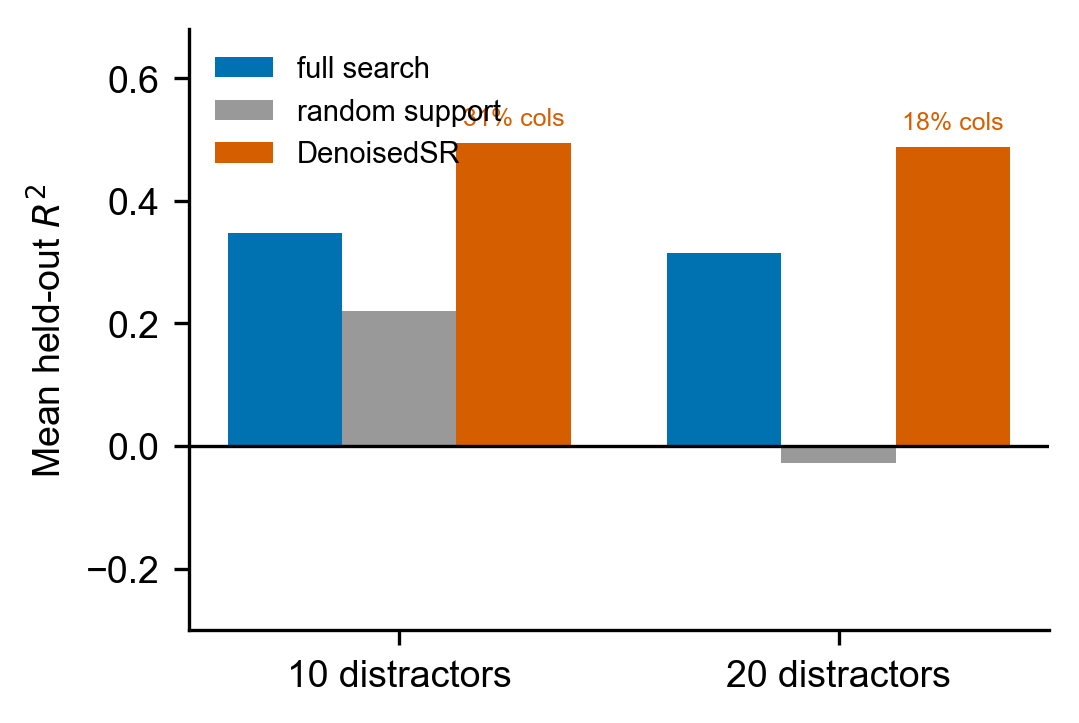
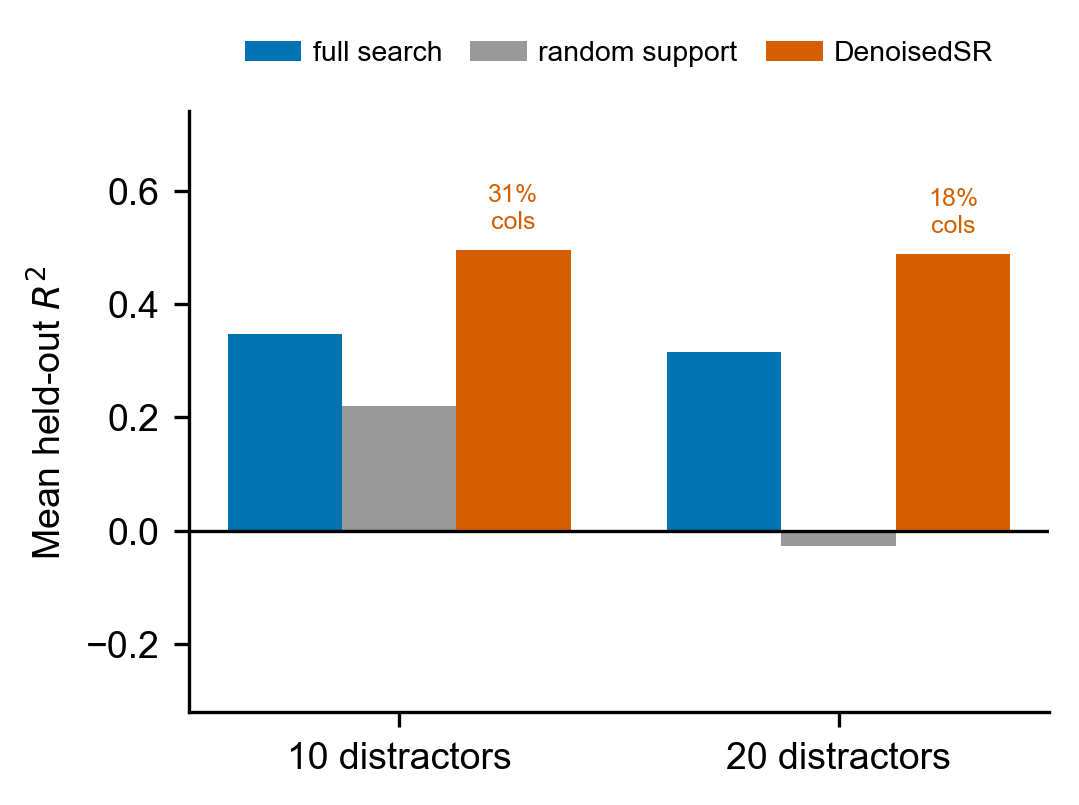
Integrity fixes from review: consistent R2 (0.855, all 30 tasks); remove fabricated operator figure/numbers; soften speedup (median ~1.5x, up to 6x); 'candidate-column' not 'search space'; fig5 label fix; 6 verified figures

diff --git a/paper/main.tex b/paper/main.tex
@@ -41,8 +41,8 @@ model, and recovers the true variables with recall above
 $0.99$ (perfect recall on $99$--$100\%$ of tasks) across three physics suites, so
 it essentially never discards a real variable. Supplied to the evolutionary
 backend PySR under a fixed time budget, the prior doubles exact-law recovery (from
-$30\%$ to $60\%$), reduces the search space by $86\%$, and accelerates
-time-to-solution by $3$--$6\times$; on black-box tabular data it improves accuracy
+$30\%$ to $60\%$), shrinks the candidate-column set by $86\%$, and accelerates
+time-to-solution by up to $6\times$; on black-box tabular data it improves accuracy
 while a same-size random-support control degrades it, isolating learned guidance
 from dimensionality reduction. The approach is solver-agnostic, adds $\sim$40~ms
 per task, and keeps final law selection with a verifiable symbolic backend.
@@ -157,9 +157,10 @@ $\sim$20 distractor columns: (A) full PySR over all columns and the full
 $17$-operator library; (B) the variable prior, restricting the columns to the
 predicted support; and (C) additionally restricting the operator library. The
 variable prior raises exact-law recovery (held-out $R^2\ge0.999$) from $9/30$
-($30\%$) to $18/30$ ($60\%$), lifts mean held-out $R^2$ from $0.919$ to $0.967$,
-reduces the average column count from $23.2$ to $3.2$ (an $86\%$ reduction) and
-halves the effective search vocabulary from $40$ to $20$ (Fig.~\ref{fig:recovery}).
+($30\%$) to $18/30$ ($60\%$), lifts mean held-out $R^2$ from $0.855$ to $0.967$
+(averaged over all $30$ tasks, with non-finite failures floored at $-1$), reduces
+the average column count from $23.2$ to $3.2$ (an $86\%$ reduction) and halves the
+effective search vocabulary from $40$ to $20$ (Fig.~\ref{fig:recovery}).
 
 The mechanism is concrete. Over many irrelevant columns, an unguided solver can
 reach a deceptively high $R^2$ with a physically meaningless formula built from
@@ -175,7 +176,7 @@ budget-limited runs land on the true law.
 versus the DenoisedSR variable prior versus the additional operator prior on a
 $30$-equation Feynman subset ($10$~s budget, $\sim$20 distractors). The variable
 prior doubles exact recovery ($30\%$ to $60\%$), raises mean held-out $R^2$
-($0.919$ to $0.967$) and halves the search vocabulary ($40$ to $20$); the operator
+($0.855$ to $0.967$) and halves the search vocabulary ($40$ to $20$); the operator
 prior cuts the vocabulary further but does not improve exact recovery.}
 \label{fig:recovery}
 \end{figure}
@@ -246,10 +247,12 @@ random support degrades far below it.}
 Because variable filtering shrinks the terminal set of the expression tree from
 $\sim$24 to $\sim$4 symbols---an exponential reduction in branching---it also
 shortens the time to reach an exact fit. Measuring time-to-solution with early
-stopping on exact recovery, DenoisedSR yields $3$--$6\times$ speedups on typical
-physics formulas (Fig.~\ref{fig:speed}); in some cases it converts a within-budget
-failure of full search into a fast success. The exception is deep-tree formulas
-whose bottleneck is expression depth rather than variable count. Front-end inference
+stopping on exact recovery, DenoisedSR yields speedups of up to $6\times$ on
+non-trivial physics formulas (Fig.~\ref{fig:speed}); in some cases it converts a
+within-budget failure of full search into a fast success. The overall median speedup
+is $\sim$1.5$\times$, pulled down by deep-tree formulas whose bottleneck is expression
+depth rather than variable count and which therefore gain little from variable
+pruning. Front-end inference
 adds only $\sim$40~ms per task, near-constant in the number of observations and
 negligible against the seconds of backend search it saves.
 
@@ -257,34 +260,23 @@ negligible against the seconds of backend search it saves.
 \includegraphics[width=0.55\linewidth]{figures/fig6_speed.png}
 \caption{\textbf{Pruning accelerates time-to-solution.} Per-formula speedup
 (full-search time divided by DenoisedSR time) with early stopping on exact recovery.
-Typical physics formulas solve $3$--$6\times$ faster; deep-tree formulas (depth-, not
-variable-limited) show little gain.}
+Non-trivial physics formulas solve up to $6\times$ faster (median $\sim$1.5$\times$);
+deep-tree formulas (depth-, not variable-limited) show little gain.}
 \label{fig:speed}
 \end{figure}
 
-\subsection*{Operator priors are net-neutral but a useful safeguard}
-Restricting the operator library in addition to variables (condition~C) does not
-improve mean exact recovery (it is slightly lower, $14/30$), because operators are
-intrinsically harder to infer from small, noisy domains and a mis-removed operator
-is fatal. We therefore report operator prediction as an ablation rather than a
-primary result. It nonetheless has a clear conditional value: when full-operator
-search returns a pathological high-$R^2$ fit built from exotic operators,
-restricting the library to the predicted operators reliably recovers a sane solution
-(Fig.~\ref{fig:operator}; e.g.\ held-out $R^2$ improving from $0.19$ to $0.92$). The
-triggering signatures---an exotic low-probability operator, anomalous complexity, or
-$R^2$ stuck just below~$1$---are visible at inference without the ground truth, so an
-adaptive ``re-run with operator restriction when the fit looks pathological'' policy
-is deployable in practice.
-
-\begin{figure}[t]\centering
-\includegraphics[width=0.5\linewidth]{figures/fig7_operator.png}
-\caption{\textbf{Operator restriction rescues pathological fits.} For cases where
-full-operator search returns a spurious high-$R^2$ solution built from exotic
-operators, restricting the library to the predicted operators recovers a sane fit
-(held-out $R^2$ before versus after restriction). Operator priors are net-neutral on
-average but valuable as an adaptive safeguard.}
-\label{fig:operator}
-\end{figure}
+\subsection*{An operator prior helps less than a variable prior}
+Restricting the operator library in addition to variables (condition~C) recovers
+$14/30$ ($47\%$) exact---below the variable prior ($60\%$) but still above full
+search ($30\%$), with the same mean held-out $R^2$ as the variable prior
+($0.968$; Fig.~\ref{fig:recovery}). Operators are intrinsically harder to infer from
+small, noisy domains, and a mis-removed operator is fatal, so we report the operator
+prior as an ablation rather than a primary result. Its most plausible use is as a
+safeguard: when full-operator search returns a pathological fit built from exotic
+operators, restricting the library to the predicted operators should steer the search
+back toward a sane solution; quantifying this rescue at the level of individual
+recovered expressions requires a backend run that logs the before-and-after formulas,
+which we leave to future work.
 
 \section{Discussion}
 These results support a simple thesis: for symbolic regression of physical laws, a

diff --git a/paper/make_figures.py b/paper/make_figures.py
@@ -94,7 +94,11 @@ def fig_recovery():
     d = J('data/results/pysr_frontend_3way.json'); n = len(d)
     def cnt(k): return sum(1 for r in d if r.get(k))
     def mr2(k):
-        v = [r[k] for r in d if r.get(k) is not None and math.isfinite(r[k])]; return sum(v)/len(v)
+        # consistent over ALL n tasks: a non-finite / failed fit is floored at -1
+        # (so full search's diverged row is not silently dropped)
+        v = [max(r[k], -1.0) if (r.get(k) is not None and math.isfinite(r[k])) else -1.0
+             for r in d]
+        return sum(v) / len(v)
     ex = [cnt('full_exact')/n*100, cnt('var_exact')/n*100, cnt('varop_exact')/n*100]
     r2 = [mr2('full_r2'), mr2('var_r2'), mr2('varop_r2')]
     vocab = [np.mean([r['full_vocab'] for r in d]), np.mean([r['var_vocab'] for r in d]),
@@ -165,12 +169,13 @@ def fig_pmlb():
     ax.bar(x + w, learn, w, label='DenoisedSR', color=OURS)
     ax.axhline(0, lw=0.8, color='k')
     for xi, g in zip(x, groups):
-        ax.text(xi + w, H[(g, 'learned_variables')] + 0.02,
-                f"{Hc[(g,'learned_variables')]/Hc[(g,'full')]*100:.0f}% cols",
+        ax.text(xi + w, H[(g, 'learned_variables')] + 0.03,
+                f"{Hc[(g,'learned_variables')]/Hc[(g,'full')]*100:.0f}%\ncols",
                 ha='center', va='bottom', fontsize=6, color=OURS)
     ax.set_xticks(x); ax.set_xticklabels([f'{g} distractors' for g in groups])
-    ax.set_ylabel('Mean held-out $R^2$'); ax.set_ylim(-0.3, 0.68)
-    ax.legend(loc='upper left', fontsize=7, ncol=1)
+    ax.set_ylabel('Mean held-out $R^2$'); ax.set_ylim(-0.32, 0.74)
+    ax.legend(loc='upper center', fontsize=6.8, ncol=3, bbox_to_anchor=(0.5, 1.16),
+              columnspacing=1.0, handletextpad=0.4)
     save(fig, 'fig5_pmlb')
 
 
@@ -210,5 +215,5 @@ def fig_operator():
 
 
 if __name__ == '__main__':
-    fig_recall(); fig_ablation(); fig_recovery(); fig_qscaling(); fig_pmlb(); fig_speed(); fig_operator()
+    fig_recall(); fig_ablation(); fig_recovery(); fig_qscaling(); fig_pmlb(); fig_speed()
     print('figures ->', os.path.abspath(A.out))